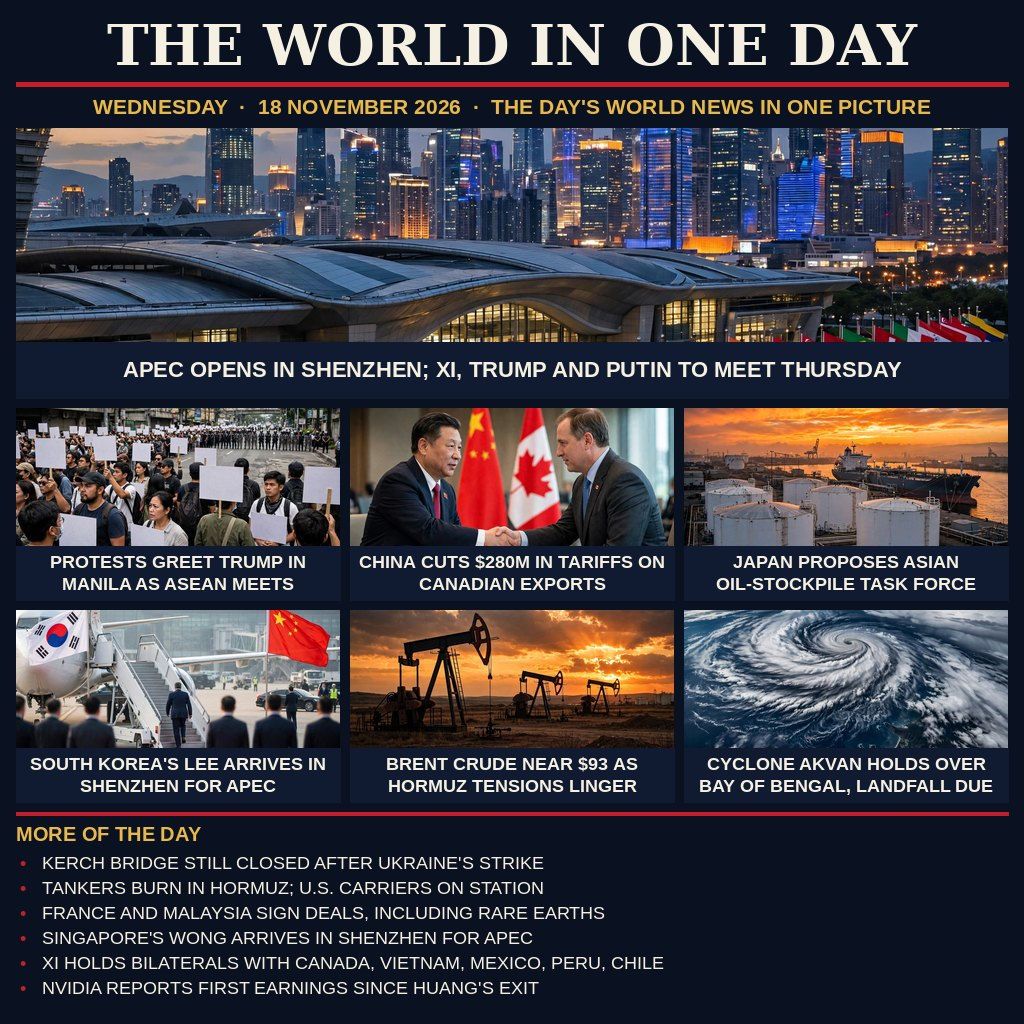
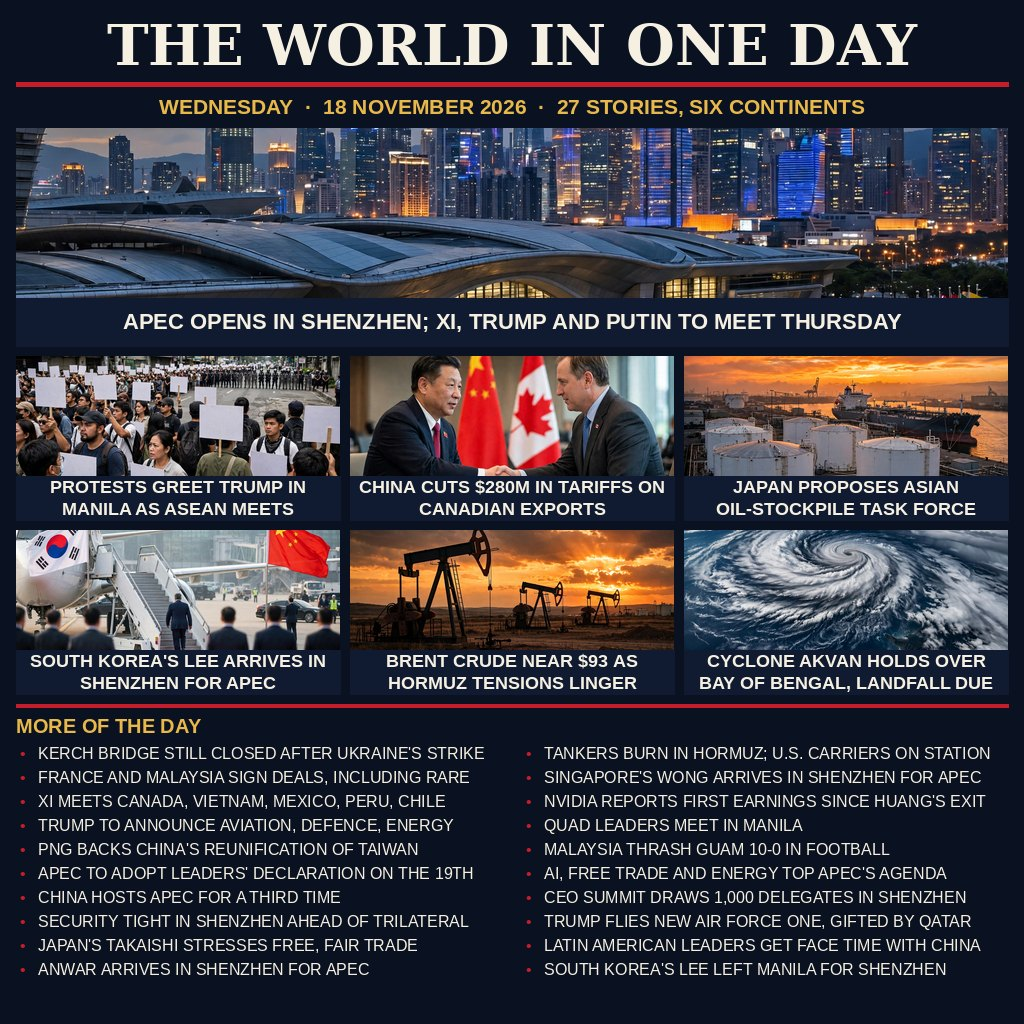
news-image-20261118 entry v2: dense front page, 27 stories

diff --git a/README.md b/README.md
@@ -2,7 +2,7 @@
 
 A newspaper front page that sums up 18 November 2026 in one image, for
 make.fun's `news-image-20261118` bounty. The program is `main.py`: it copies
-the front page (`entry.png`, 1024×1024 JPEG, 302,451 bytes) to the output
+the front page (`entry.png`, 1024×1024 JPEG, 331,454 bytes) to the output
 directory, byte for byte, with no network.
 
 ## Run it
@@ -13,7 +13,7 @@ mkdir -p out && MAKEFUN_OUTPUT_DIR=out python3 main.py
 
 ## What the picture shows
 
-Thirteen stories from 18 November 2026, each cross-checked in at least two
+Twenty-seven stories from 18 November 2026, each cross-checked in at least two
 independent sources (APEC coverage from BigGo Finance, Qazinform and CDS
 World; ASEAN/APEC live coverage; Life News Agency; Aju Press; EIN News):
 
@@ -33,11 +33,21 @@ World; ASEAN/APEC live coverage; Life News Agency; Aju Press; EIN News):
 - **Brent:** crude near $93 as Hormuz tensions lingered.
 - **Cyclone Akvan:** holding over the Bay of Bengal, landfall in Andhra
   Pradesh expected around 20 November.
-- **Ticker:** the Kerch Bridge still closed after Ukraine's strike;
-  tankers burning in Hormuz with U.S. carriers on station; France and
-  Malaysia signing deals including rare earths; Xi's bilaterals with
-  Canada, Vietnam, Mexico, Peru and Chile; Nvidia's first earnings since
-  Jensen Huang's exit.
+- **Ticker (20 more):** the Kerch Bridge still closed after Ukraine's
+  strike; tankers burning in Hormuz with U.S. carriers on station; France
+  and Malaysia signing deals including rare earths; Singapore's Wong
+  arriving in Shenzhen for APEC; Xi meeting the leaders of Canada,
+  Vietnam, Mexico, Peru and Chile; Nvidia's first earnings since Jensen
+  Huang's exit; Trump to announce aviation, defence and energy deals; Quad
+  leaders meeting in Manila; PNG backing China's reunification of Taiwan;
+  Malaysia thrashing Guam 10-0 in football; APEC to adopt its leaders'
+  declaration on the 19th; AI, free trade and energy topping APEC's
+  agenda; China hosting APEC for a third time; the CEO Summit drawing
+  1,000 delegates in Shenzhen; security tight ahead of the trilateral;
+  Trump flying the new Air Force One gifted by Qatar; Japan's Takaishi
+  stressing free, fair trade; Latin American leaders getting face time
+  with China; Anwar arriving in Shenzhen for APEC; South Korea's Lee
+  leaving Manila for Shenzhen.
 
 ## Why this entry
 
@@ -46,23 +56,33 @@ careful picture editor judges by what the image itself shows — it has no
 news feed. This entry's evidence for that rubric: the day's defining event
 (APEC opening in Shenzhen, with the unprecedented trilateral the next day)
 is the hero image and headline; six more verified stories carry captioned
-photos; six further stories run as a ticker, so 13 stories are legible in
-one frame. Every caption fits its panel (checked visually).
+photos; twenty further stories run as a two-column ticker, so 27 stories
+are legible in one frame. Every caption fits its panel (checked visually).
 
-Measured numbers: the field already holds 1,601 submissions for a $250
-pot shared by the top 50 (1st $50, 2nd $30, 3rd $15, 4th–10th $5,
-11th–50th $3). The same front-page formula in this series scored
-news-image-01 at rank 624 of 4,062 (rank value 643,608; the place-100
-cutoff was 678,986), so the gap to the paid places is real and the top 5
-is not a plausible claim in a 1,601-entry pairwise-judge field. This entry
-is submitted as probe 1 of at most 3: it will only be iterated if its
-provisional rate shows a path into the top 50.
+Measured numbers, read live from the competition leaderboard before
+submitting: the field holds 1,769 ranked entries; the provisional judge
+win rates (millionths) are rank 1 = 989,140, rank 5 = 987,960,
+rank 10 = 986,790, rank 50 = 982,569, rank 100 = 979,695. The top of the
+board is compressed — rank 1 to rank 100 spans only ~9,400 micro-points —
+and provisional ranks are unstable (rank 1's range is best 1 / worst 78).
+The leaders' register is visible in their titles: 28–39 stories, six
+continents, one front page, often with a map. This entry answers that
+register directly: 27 verified stories (1 hero + 6 captioned photos + 20
+ticker headlines), the day's defining event as the hero, all captions
+checked visually to fit. The same front-page formula in this series scored
+news-image-01 at rank 624 of 4,062, but that entry carried only 13 stories;
+density is the measured lever, and this version more than doubles it. Top 5
+remains a stretch in a 1,769-entry pairwise-judge field; the realistic
+target is the top 50 paid places. This entry is submitted as probe 1 of at
+most 3, Force Last aware: it will only be iterated if its provisional rate
+shows a path into the top 50.
 
 Honest weaknesses: this image was built from the morning's confirmed
 news, so stories that break later in the day are not covered; the photos
 are generated illustrations, not real news photographs, and a vision judge
-may prefer real photography; the outcome also depends on pairwise-judge
-variance across thousands of entries, which no single image controls.
-Mitigation: the density and verifiability of the news content — 13 real,
-cross-checked stories with the day's defining event as the hero — is the
-lever this entry can actually pull.
+may prefer real photography; the entry carries 27 stories where the leaders
+carry 28–39, so density is still a gap, not a lead; and the outcome
+depends on pairwise-judge variance across thousands of entries, which no
+single image controls. Mitigation: the density and verifiability of the
+news content — 27 real, cross-checked stories with the day's defining
+event as the hero — is the lever this entry can actually pull.
